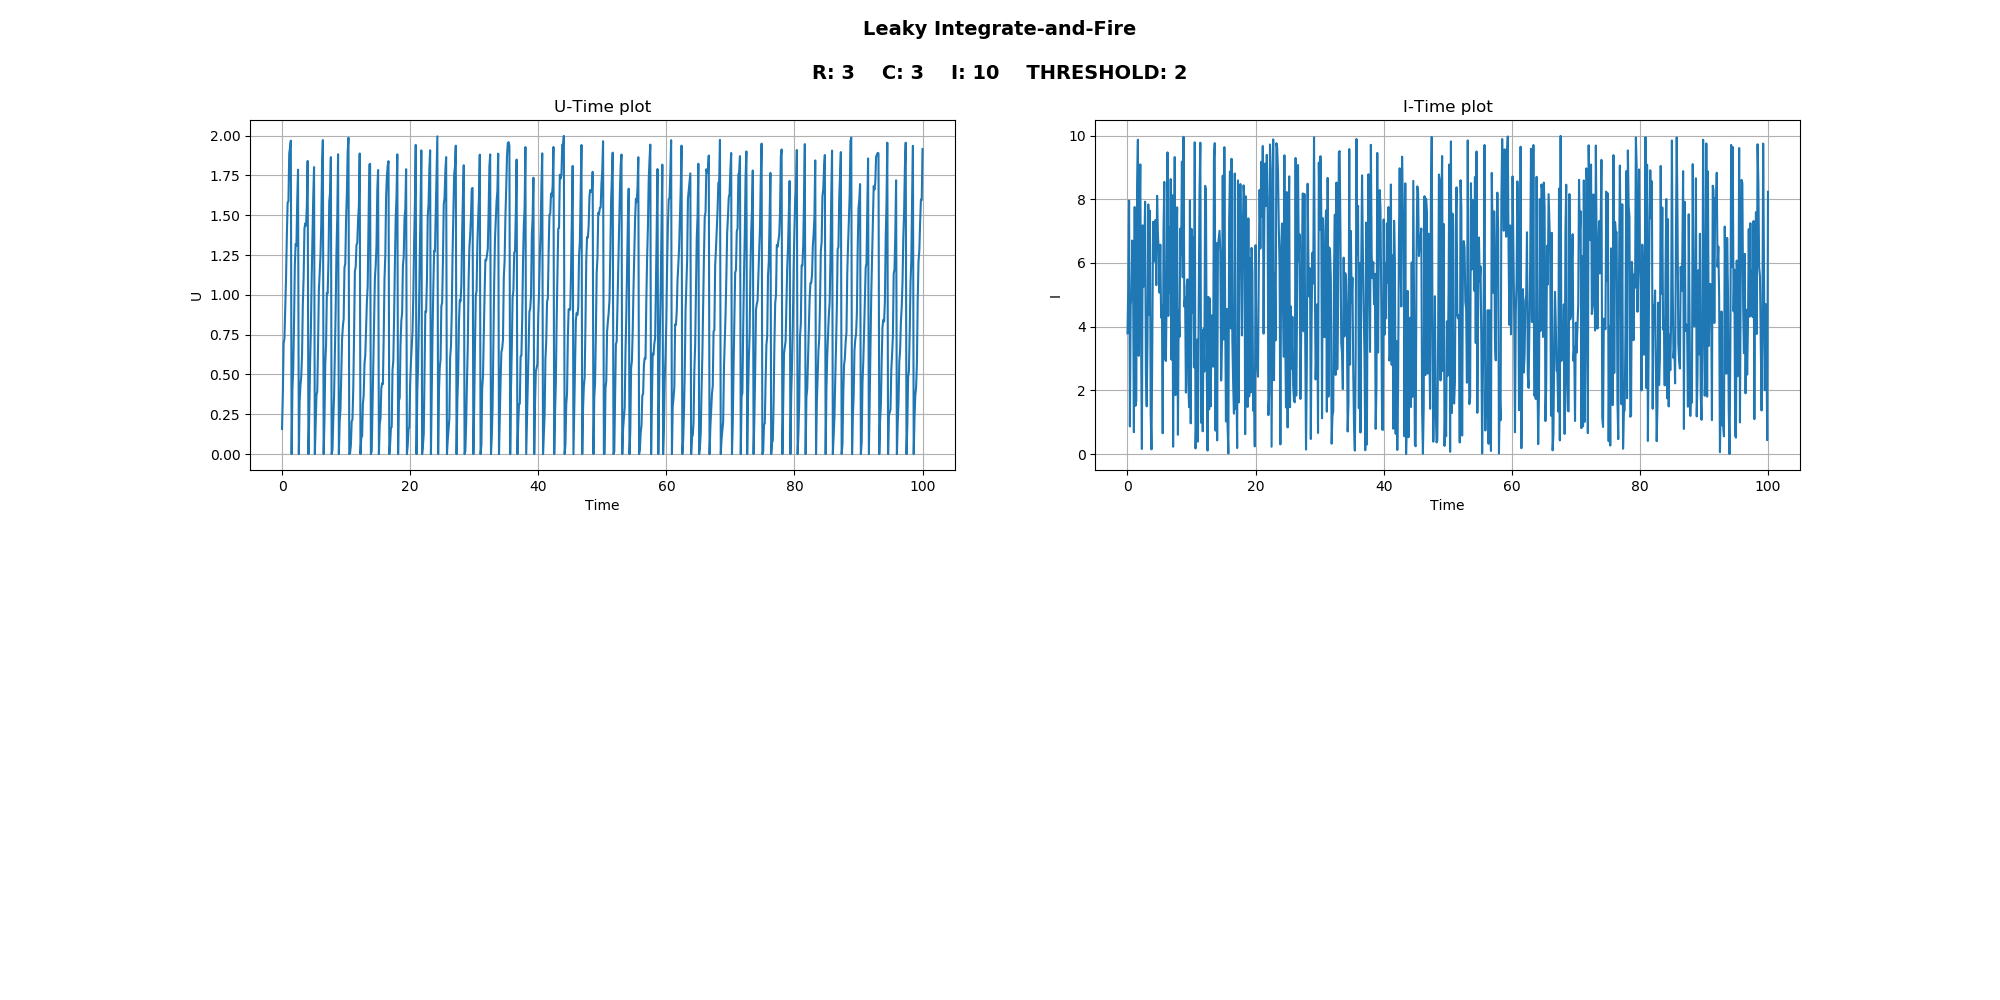
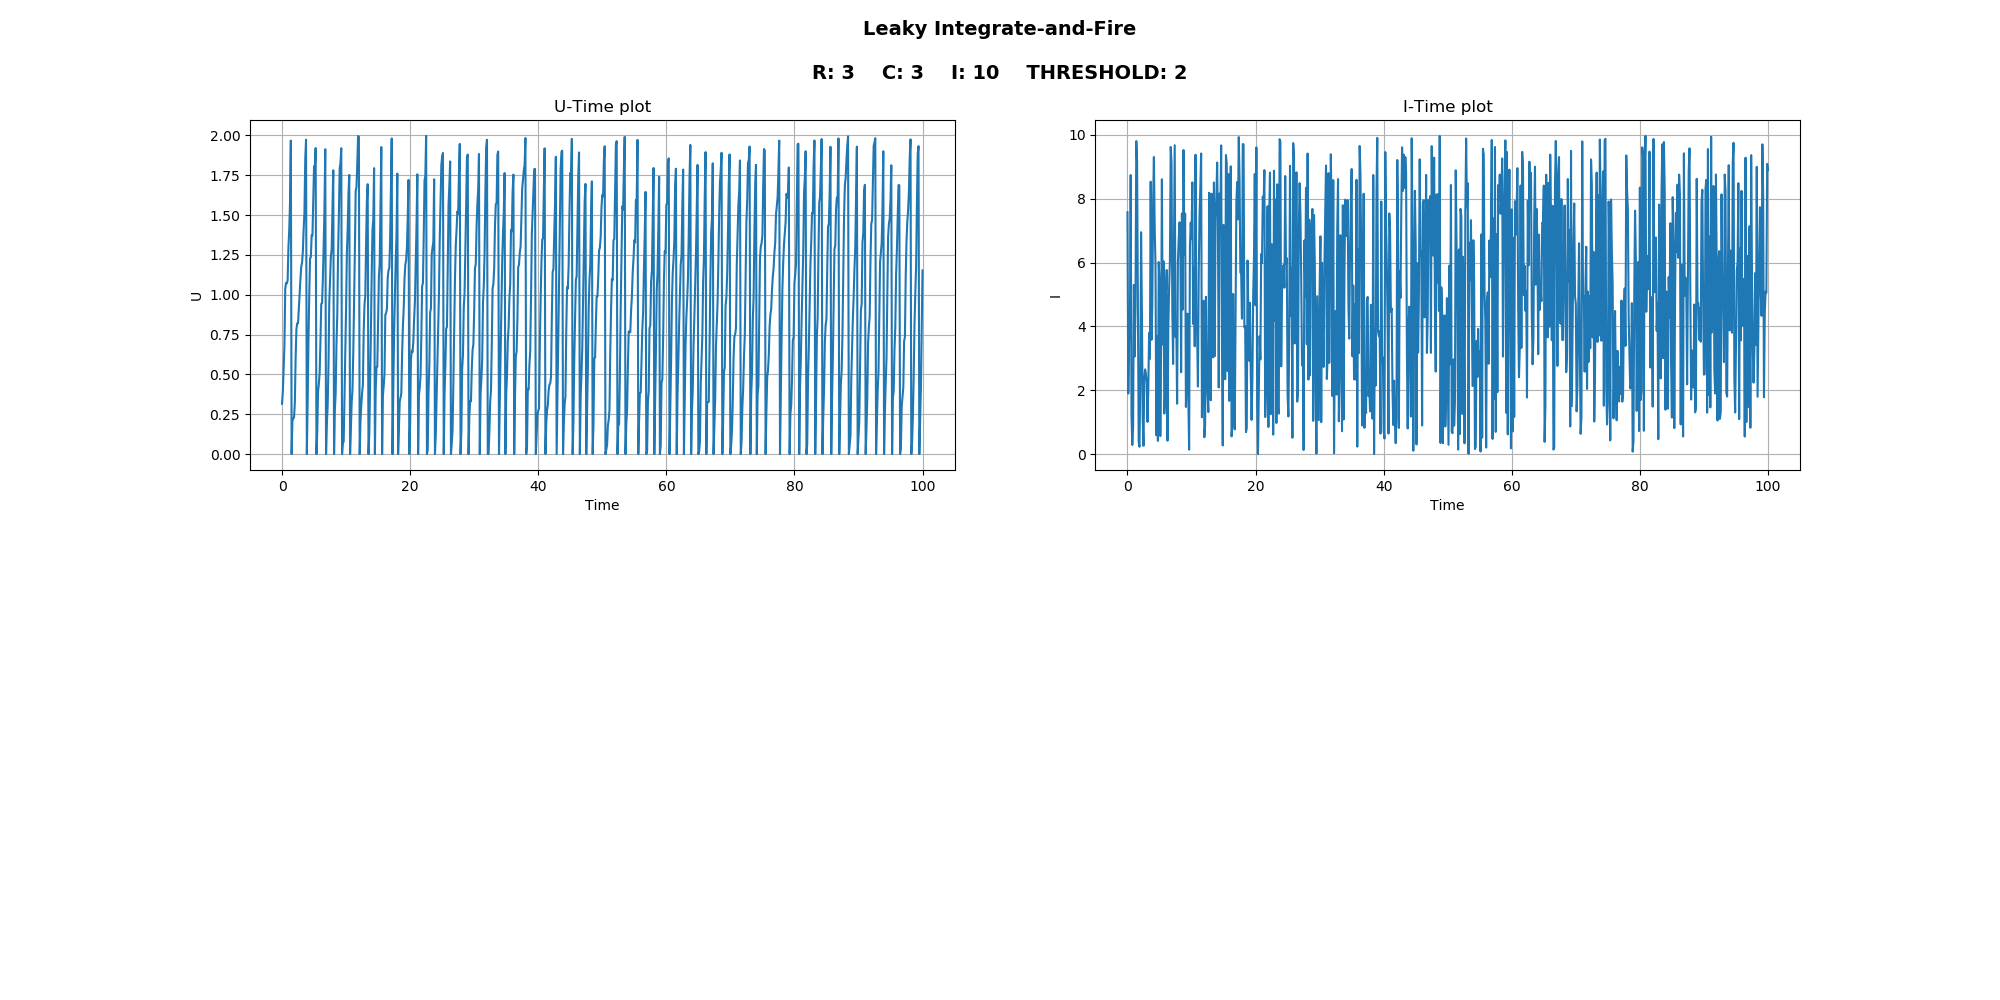
ELIF finished

Changed region(s): [[0.124, 0.124, 0.465, 0.465], [0.558, 0.124, 0.899, 0.465]]

diff --git a/Exponential Leaky Integrate-and-Fire.py b/Exponential Leaky Integrate-and-Fire.py
@@ -1,0 +1,78 @@
+import numpy as np
+from matplotlib.pyplot import *
+import random
+import math
+
+
+def i_interval(x, i):
+    if 20 < x < 70:
+        return i
+    return 0
+
+
+def i_random(x, i):
+    return random.random() * i
+
+
+def explif(time=100, steps=0.125, i_function=i_interval, u_rest=0, r=1, c=10, i=5, threshold=2, delta_t=2, theta_rh=2,
+           f_i_plot=False,
+           save_name="ELIF"):
+    timer = np.arange(0, time + steps, steps)
+    tm = r * c
+    u = [u_rest] * len(timer)
+    dt = steps
+    i_input = [i_function(j, i) for j in timer]
+
+    # ELIF Model -> NEURONAL DYNAMICS [Wulfram_Gerstner,_Werner_M_Kistle] page 124
+    for j in range(len(timer)):
+        u[j] = u[j - 1] + (-u[j - 1] + r * i_input[j] + delta_t * math.exp((u[j - 1] - theta_rh) / delta_t)) / tm * dt
+        if u[j] >= threshold or u[j] < u_rest:
+            u[j] = u_rest
+
+    # plotting
+    fig = figure(num=None, figsize=(20, 10))
+    fig.suptitle('Leaky Integrate-and-Fire\n\n' + "R: " + str(r) + "    C: " + str(c) + "    I: " + str(
+        i) + "    THRESHOLD: " + str(threshold), fontsize=14, fontweight='bold')
+    subplot(221)
+    plot(timer, u)
+    ylabel('U')
+    xlabel('Time')
+    title('U-Time plot')
+    grid(True)
+
+    subplot(222)
+    plot(timer, i_input)
+    ylabel('I')
+    xlabel('Time')
+    title('I-Time plot')
+    grid(True)
+
+    if f_i_plot:
+        i_x = np.arange(0, 5, 0.125)
+        i_y = [0] * len(i_x)
+        for j in range(len(i_x)):
+            try:
+                i_y[j] = 1 / (-1 * tm * (math.log(1 - (threshold - u_rest) / (r * j))))
+            except:
+                i_y[j] = 0
+        subplot(223)
+        plot(i_x, i_y)
+        ylabel('F')
+        xlabel('I')
+        title('F-I plot')
+        grid(True)
+    savefig('figures/{}.png'.format(save_name))
+    show()
+
+
+explif(u_rest=2, r=1, c=10, i=5, threshold=7, f_i_plot=True, save_name="ELIF1")
+explif(u_rest=2, r=10, c=5, i=2, threshold=5, f_i_plot=True, save_name="ELIF2")
+explif(u_rest=2, r=5, c=7, i=1, threshold=5, f_i_plot=True, save_name="ELIF3")
+explif(u_rest=0, r=3, c=3, i=10, threshold=2, f_i_plot=True, save_name="ELIF4")
+explif(u_rest=1, r=2, c=4, i=7, threshold=50, f_i_plot=True, save_name="ELIF5")
+
+explif(u_rest=0, r=1, c=10, i=5, threshold=2, i_function=i_random, save_name="ELIF_random1")
+explif(u_rest=2, r=10, c=5, i=2, threshold=5, i_function=i_random, save_name="ELIF_random2")
+explif(u_rest=2, r=5, c=7, i=1, threshold=5, i_function=i_random, save_name="ELIF_random3")
+explif(u_rest=0, r=3, c=3, i=10, threshold=2, i_function=i_random, save_name="ELIF_random4")
+explif(u_rest=1, r=2, c=4, i=7, threshold=50, i_function=i_random, save_name="ELIF_random5")
